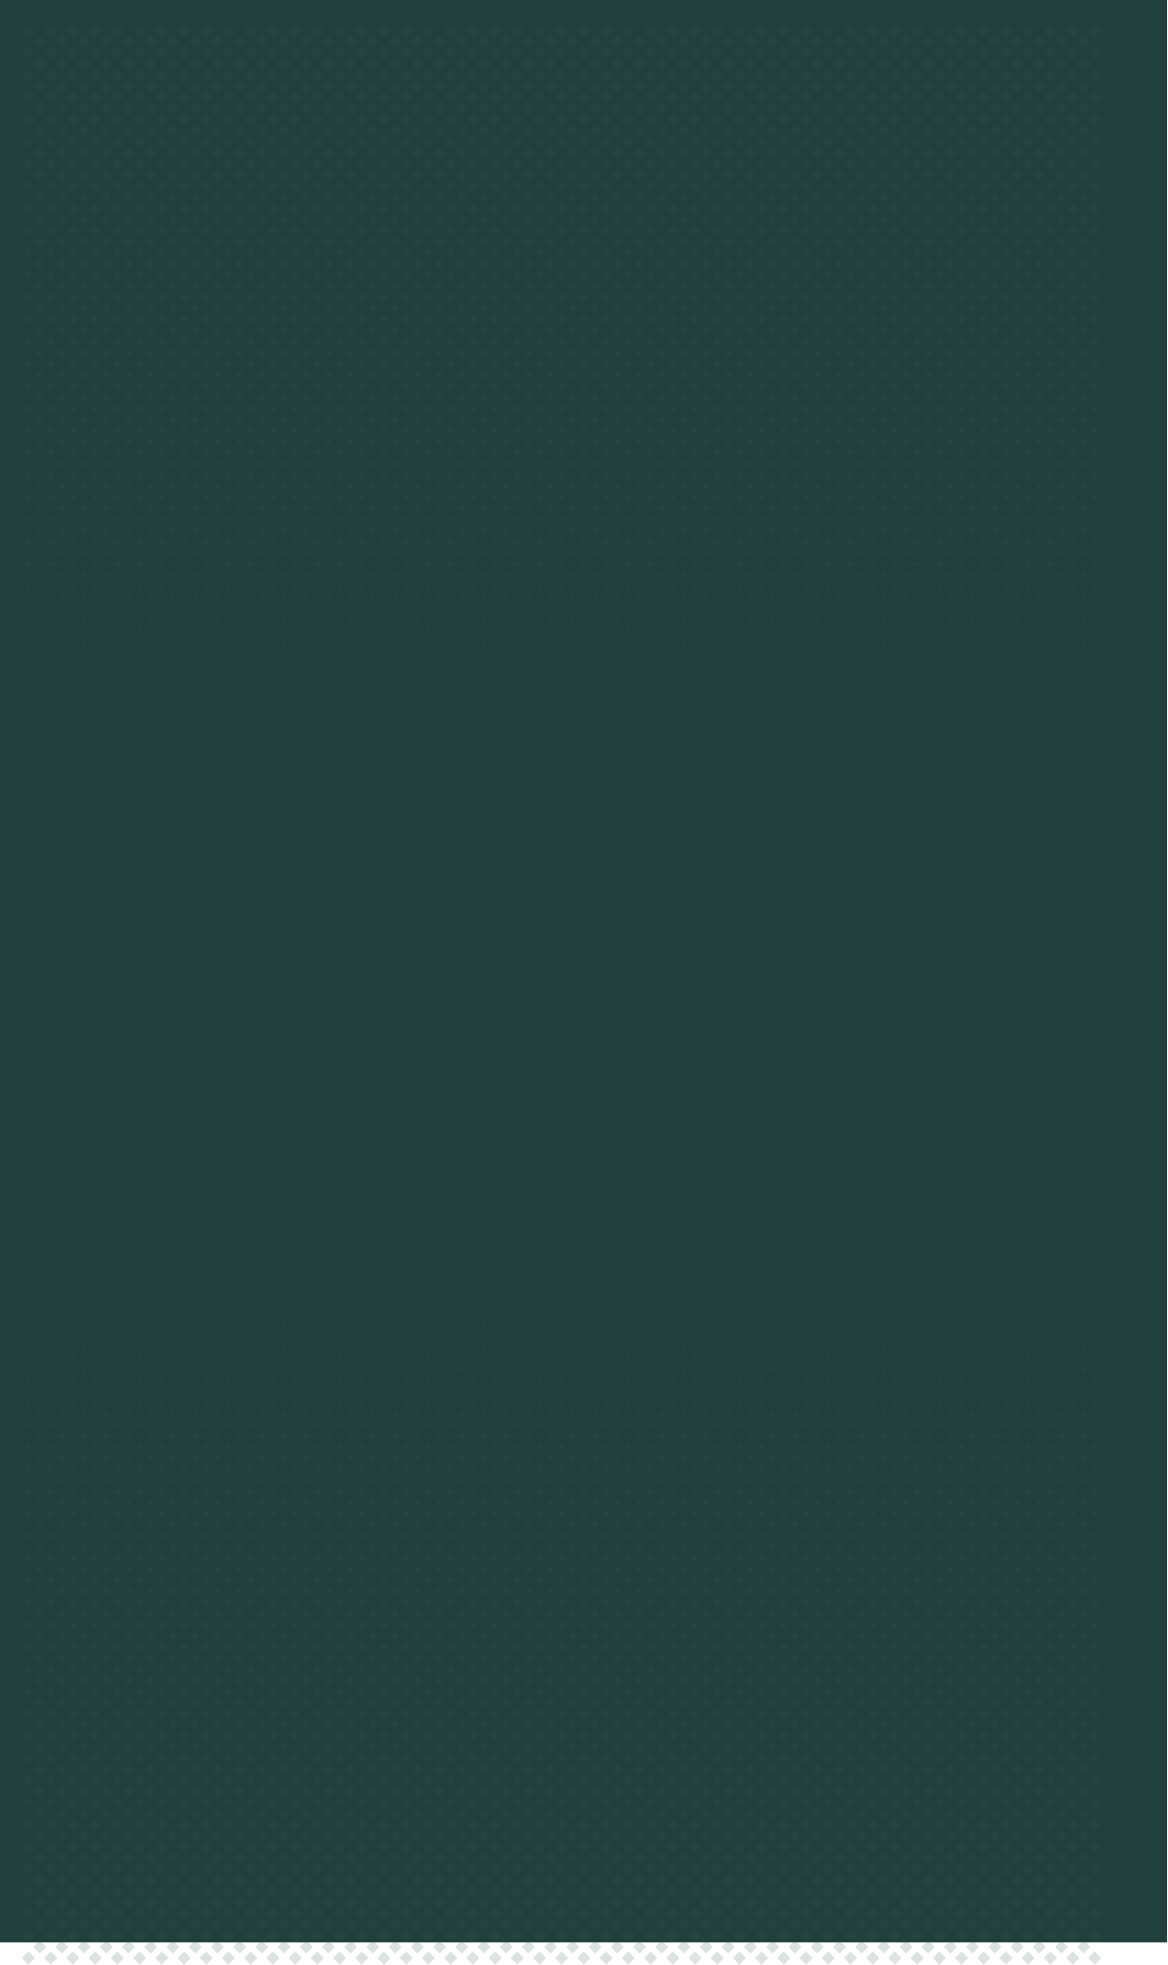
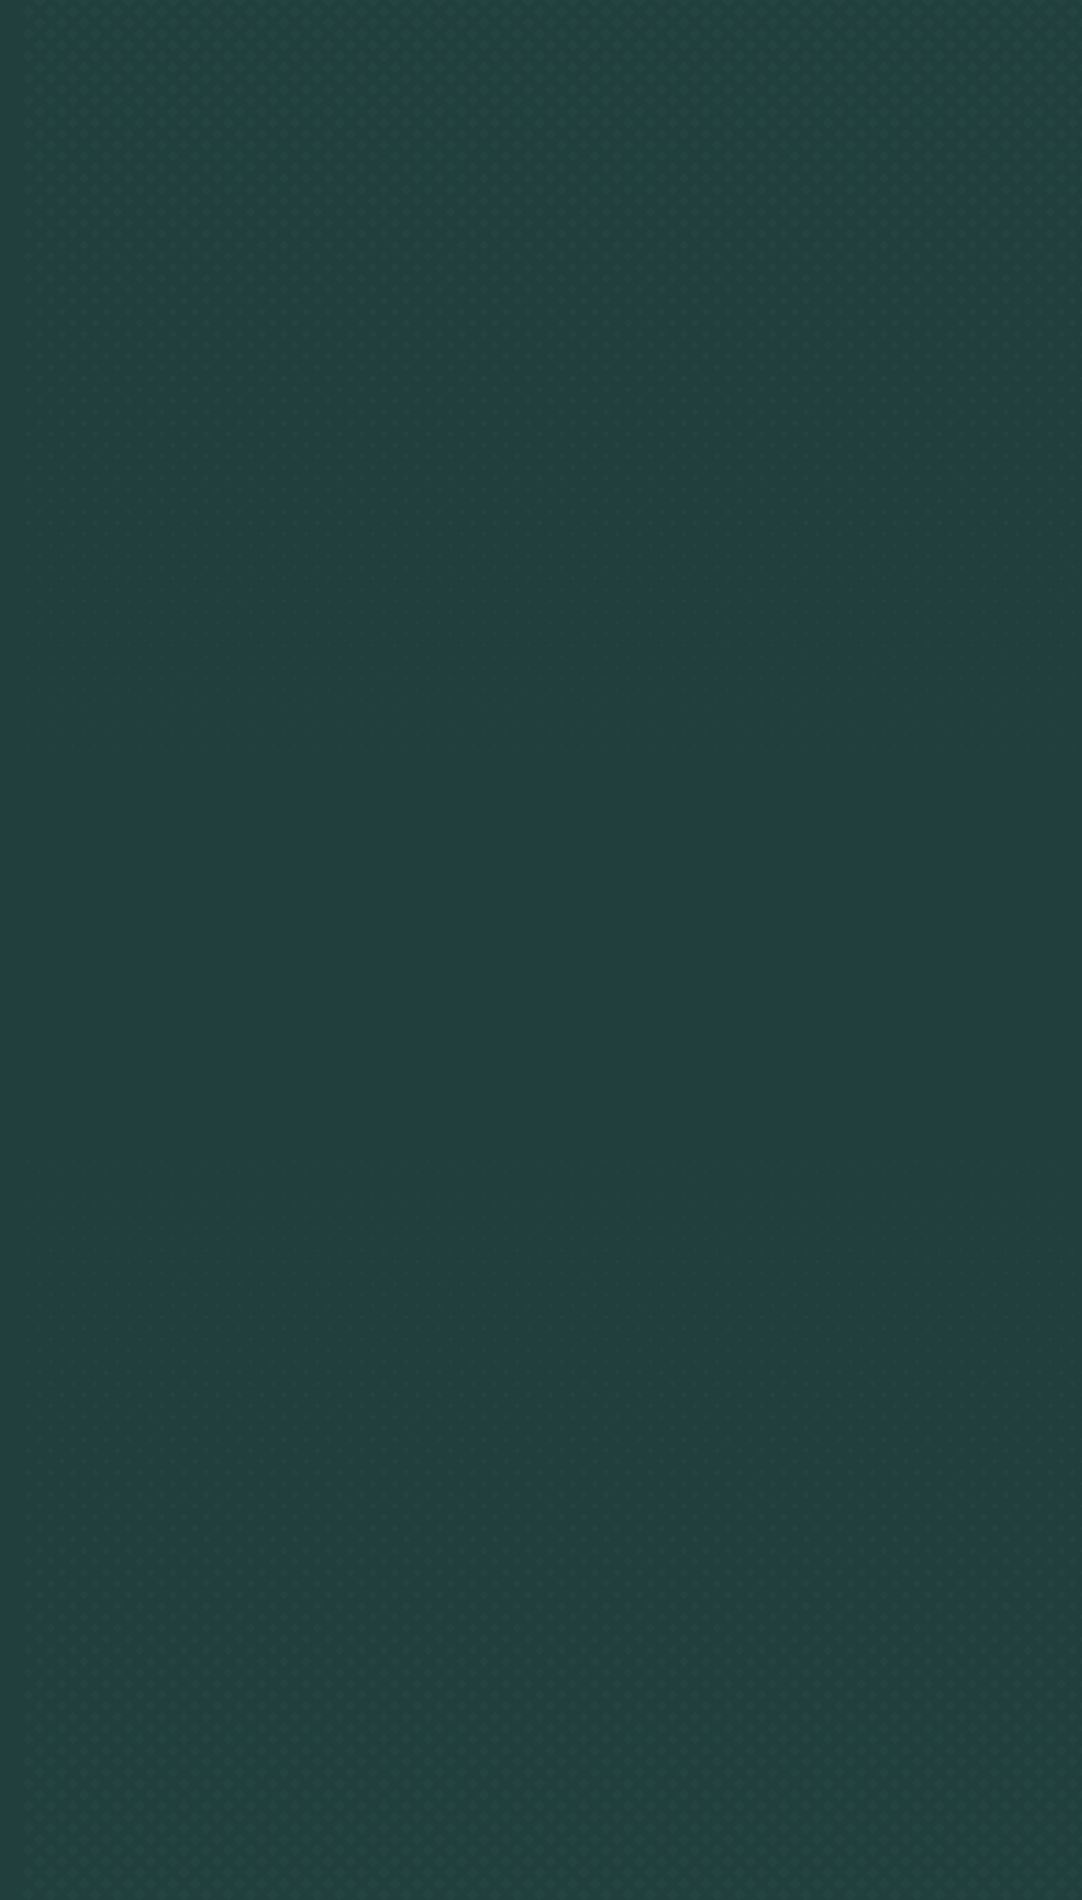
Add files via upload

Changed region(s): [[0.0, 0.9626, 1.0, 1.0]]

diff --git a/links/index.html b/links/index.html
@@ -16,22 +16,15 @@
   <style>
     *, *::before, *::after { margin: 0; padding: 0; box-sizing: border-box; }
 
-    html, body {
+    /* html cubre cualquier espacio extra fuera de .page en móvil */
+    html {
       min-height: 100%;
-      height: 100%;
-      background-color: #243d32;
+      background: #243d32 url('assets/Background.png') no-repeat center top / cover;
     }
 
-    /* Fixed background — cubre todo el viewport en desktop y móvil */
-    body::before {
-      content: '';
-      position: fixed;
-      inset: 0;
-      z-index: -1;
-      background-image: url('assets/Background.png');
-      background-size: cover;
-      background-position: center;
-      background-repeat: no-repeat;
+    body {
+      min-height: 100%;
+      background: transparent;
     }
 
     /* ─── Page ──────────────────────────────────────────── */
@@ -40,7 +33,7 @@
       min-height: 100dvh;
       max-width: 430px;
       margin: 0 auto;
-      background: transparent;
+      background: #243d32 url('assets/Background.png') no-repeat center top / cover;
       overflow: hidden;
       display: flex;
       flex-direction: column;
